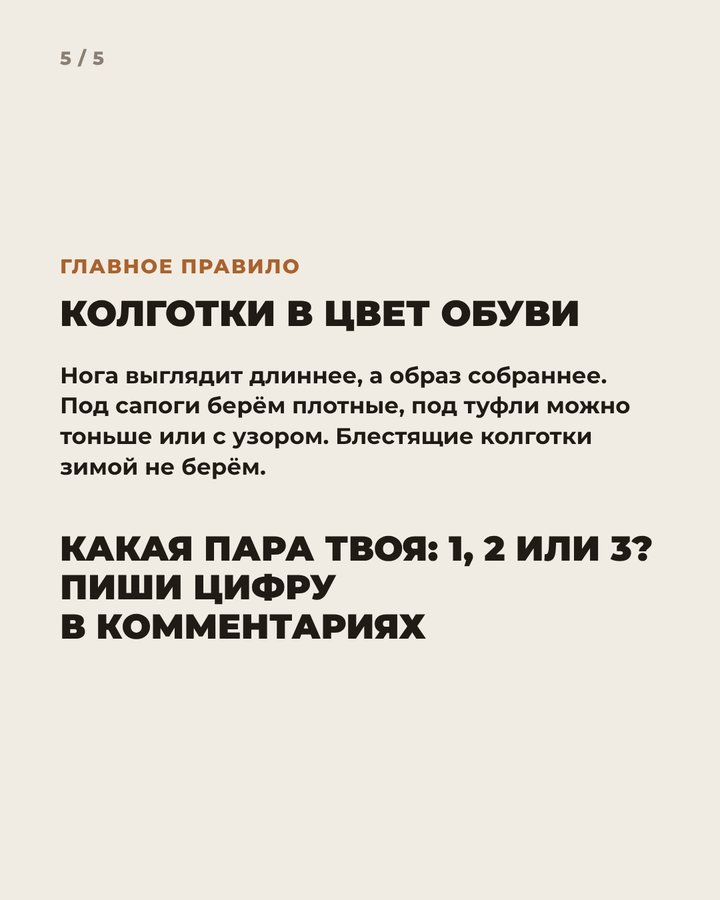
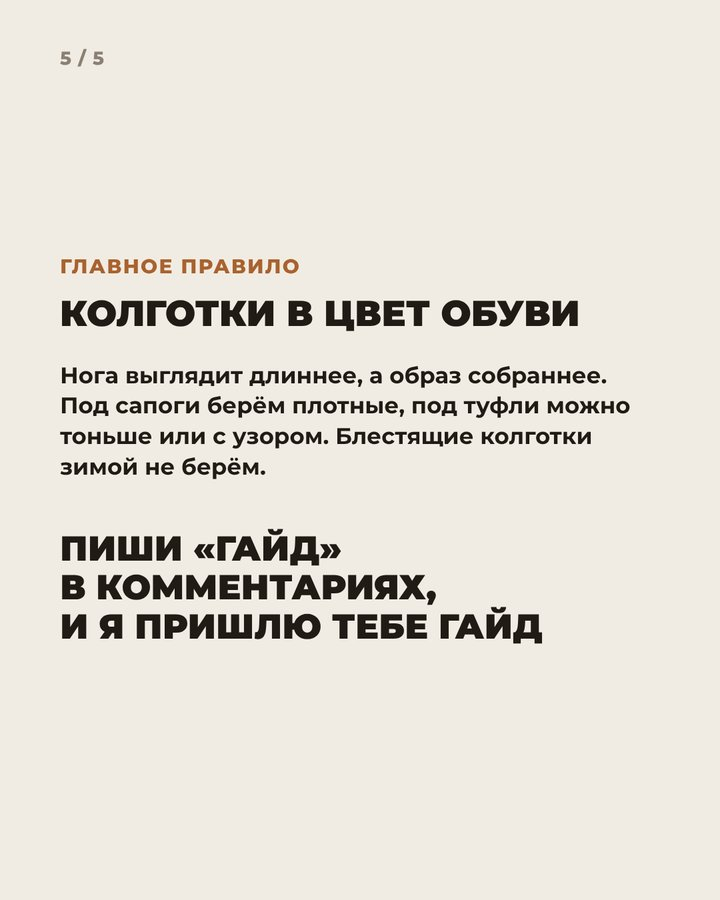
Carousel 13.11: GUIDE call to action
Claude-Session: https://claude.ai/code/session_01WfDMDWpCzhvXCNpiNoLDnf

Changed region(s): [[0.0917, 0.5911, 0.9167, 0.7156]]

diff --git a/karusel-kolgotki-zimoi/index.html b/karusel-kolgotki-zimoi/index.html
@@ -89,7 +89,7 @@ header{display:grid;gap:10px}
         <img src="s/02.jpg" alt="Пара 1: серые колготки 70 den и серые ботильоны">
         <img src="s/03.jpg" alt="Пара 2: тёплые чёрные в рубчик и чёрные ботильоны">
         <img src="s/04.jpg" alt="Пара 3: в горошек и слингбэки с бантом">
-        <img src="s/05.jpg" alt="Правило «колготки в цвет обуви» и вопрос «Какая пара твоя: 1, 2 или 3?»">
+        <img src="s/05.jpg" alt="Правило «колготки в цвет обуви» и призыв «Пиши ГАЙД»">
       </div>
       <button class="nav prev" id="prev" aria-label="Предыдущий слайд">‹</button>
       <button class="nav next" id="next" aria-label="Следующий слайд">›</button>
@@ -104,7 +104,7 @@ header{display:grid;gap:10px}
       <p>Пара 1, серые:<br>Колготки 70 den — Befree, 999 ₽<br>Ботильоны из замши — Love Republic, 12 479 ₽</p>
       <p>Пара 2, чёрные:<br>Тёплые колготки в рубчик — Befree, 1 299 ₽<br>Ботильоны с пряжкой — Love Republic, 7 799 ₽</p>
       <p>Пара 3, на праздник:<br>Колготки в горошек — Sela, 1 599 ₽<br>Слингбэки с бантом — Sela, 3 999 ₽</p>
-      <p>Какая пара твоя: 1, 2 или 3? Пиши цифру в комментариях.</p>
+      <p>Пиши «ГАЙД» в комментариях, и я пришлю тебе гайд 🤍</p>
       <p>Фото: сайты магазинов. Цены на 9.11.</p>
       <p>#колготки #стильзимой #образнакаждыйдень #капсула #стилист</p>
     </div>
@@ -148,7 +148,7 @@ header{display:grid;gap:10px}
 <span class="n">05</span>
 <img src="s/05.jpg" alt="" data-i="4">
 <div class="t">
-<span>Правило «колготки в цвет обуви» и вопрос «Какая пара твоя: 1, 2 или 3?»</span>
+<span>Правило «колготки в цвет обуви» и призыв «Пиши ГАЙД»</span>
 <span class="src"></span>
 </div>
 </li>
